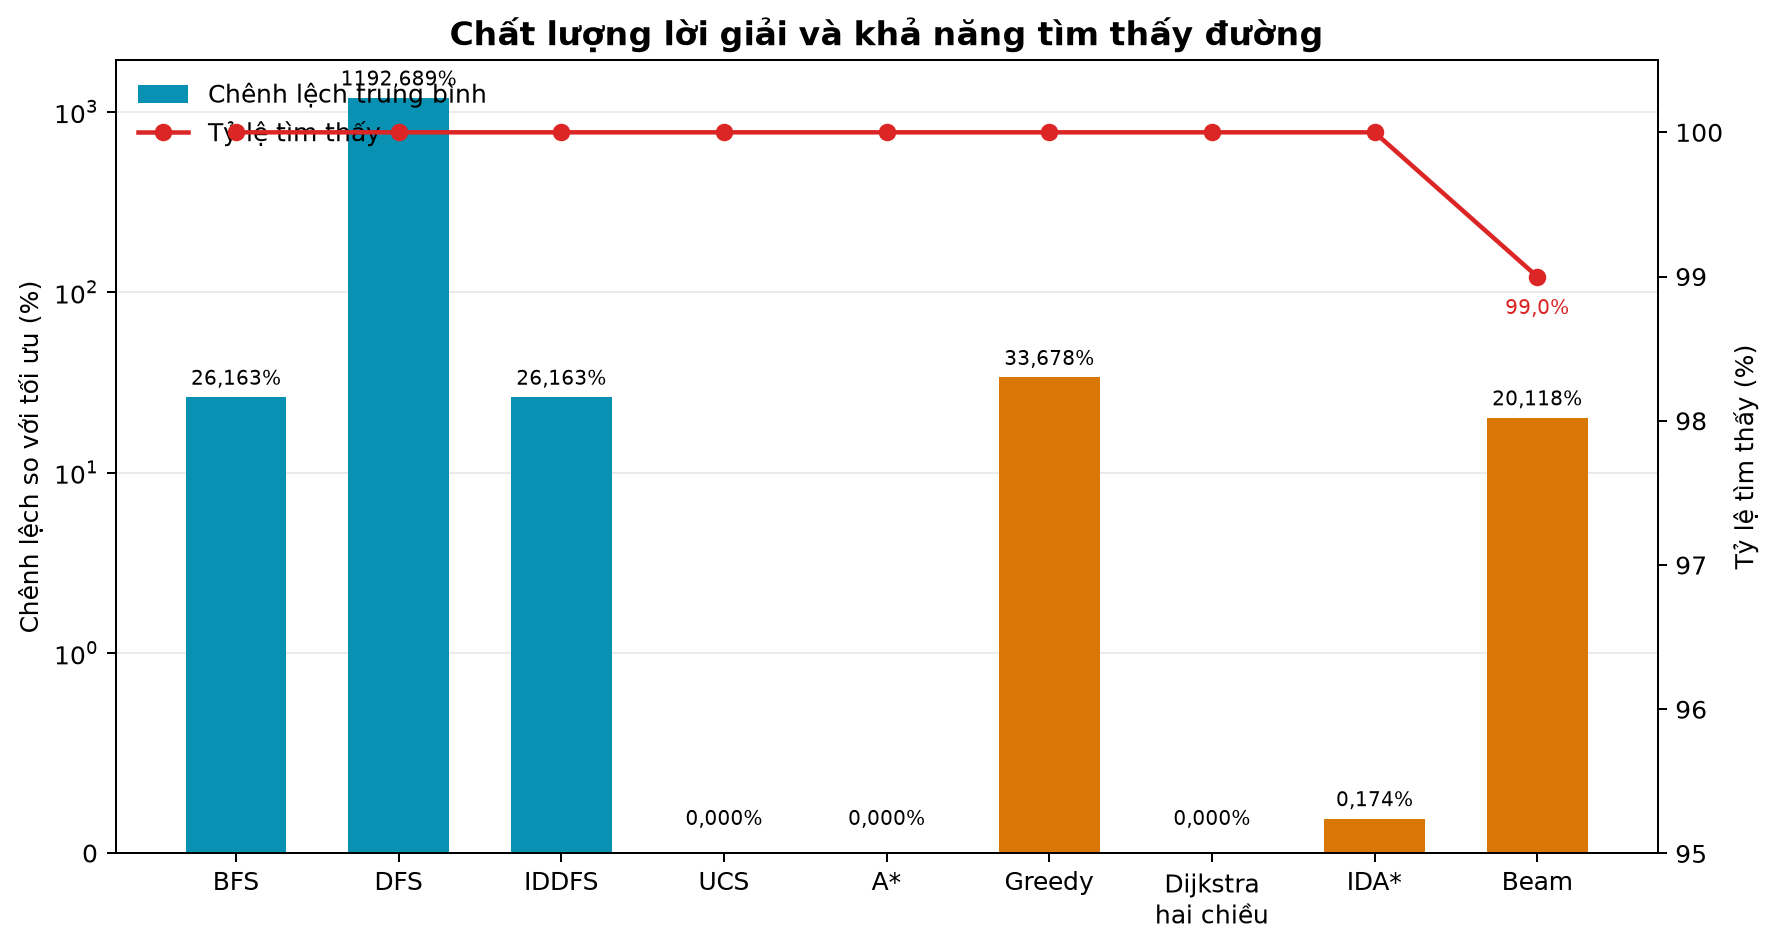
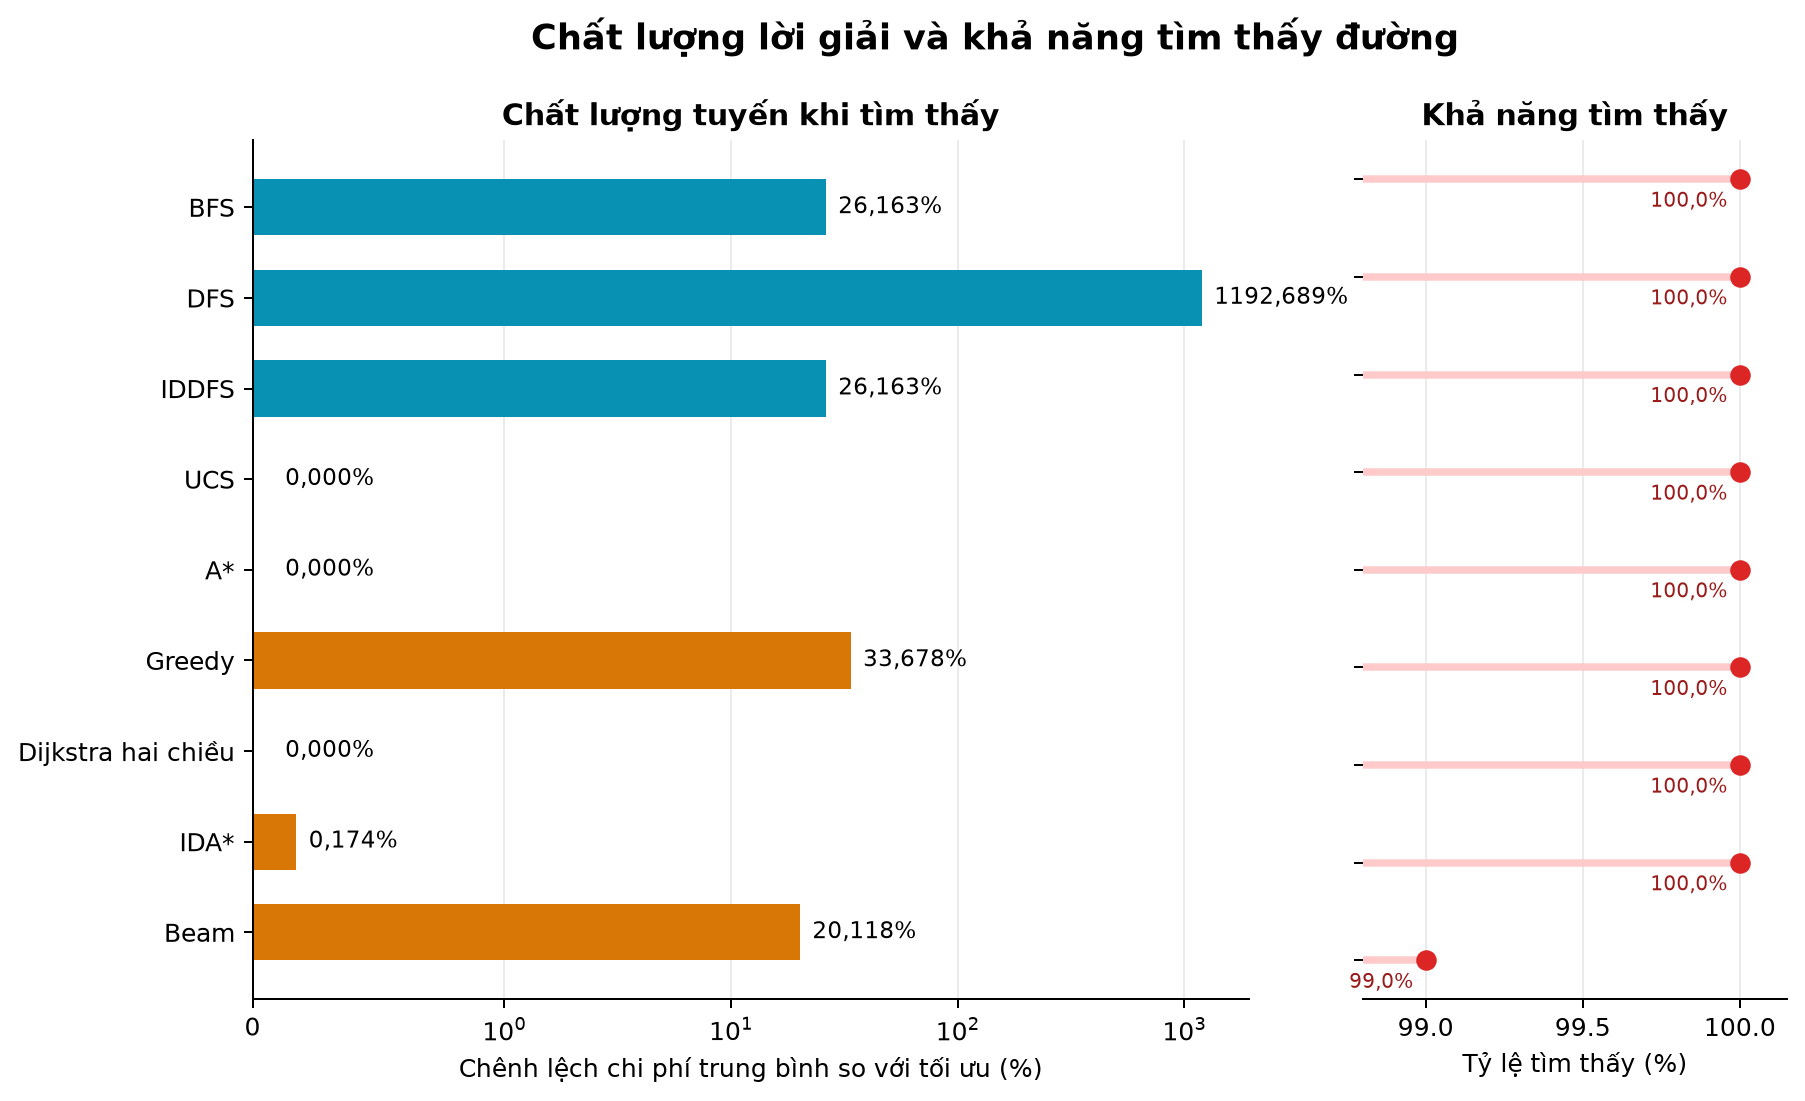
update 2 point report, benchmark csv

diff --git a/report/2point.md b/report/2point.md
@@ -91,7 +91,8 @@ theo cùng một thước đo vận hành.
 ### 5.2.2. Hàm ước lượng
 
 Gọi $d_H(n,t)$ là khoảng cách Haversine từ đỉnh $n$ đến đích $t$ và $v_{\max}$
-là vận tốc tự do lớn nhất trên toàn đồ thị. Hàm ước lượng được chọn như sau:
+là vận tốc tự do lớn nhất trên đồ thị hiệu lực đang xét. Hàm ước lượng được chọn
+như sau:
 
 $$
 h(n)=
@@ -311,7 +312,7 @@ với $\varepsilon=5$ mét ở chế độ khoảng cách và 5 giây ở hai ch
 
 ```text
 ngưỡng = h(s)
-Lặp tối đa số vòng an toàn:
+Lặp tối đa số vòng an toàn (mặc định 1.000):
     Chạy DFS, chỉ mở rộng trạng thái có g + h không vượt ngưỡng
     Nếu gặp đích: trả về đường đi
     Ghi nhận giá trị f nhỏ nhất đã vượt ngưỡng
@@ -382,22 +383,29 @@ rộng ít trong tiểu đồ thị; IDA* dùng biên nhỏ nhưng phải lặp 
 | Beam Search | Không | Không | Có thể loại bỏ toàn bộ nhánh dẫn đến đích |
 
 Gọi $b$ là hệ số phân nhánh, $d$ là độ sâu của nghiệm nông nhất, $k$ là độ rộng
-Beam. Bảng 7.2 trình bày cận điển hình; với A*, Greedy và IDA*, hiệu quả thực tế
-phụ thuộc mạnh vào chất lượng hàm ước lượng.
+Beam và $Q$ là số bản ghi lớn nhất nằm đồng thời trong ngăn xếp tường minh.
+Bảng 7.2 tách cận thời gian thường dùng khỏi bộ nhớ của cách hiện thực hiện tại;
+với A*, Greedy và IDA*, hiệu quả thực tế còn phụ thuộc mạnh vào chất lượng hàm
+ước lượng.
 
 **Bảng 7.2. Độ phức tạp và đặc điểm sử dụng tài nguyên**
 
-| Thuật toán | Thời gian điển hình hoặc cận xấu nhất | Bộ nhớ | Đặc điểm chính |
+| Thuật toán | Thời gian điển hình hoặc cận xấu nhất | Bộ nhớ của cách hiện thực | Đặc điểm chính |
 |---|---|---|---|
 | BFS | $O(V+E)$ | $O(V)$ | Tốt cho số bước, không xét trọng số |
-| DFS | $O(V+E)$ | $O(V)$ | Đi sâu nhanh, nhạy với thứ tự kề |
-| IDDFS | $O(b^d)$ | $O(V+bd)$ trong hiện thực hiện tại | Mở rộng lặp nhiều vòng |
-| UCS | $O((V+E)\log V)$ | $O(V)$ | Mốc chuẩn tối ưu đáng tin cậy |
-| A* | Xấu nhất $O((V+E)\log V)$ | $O(V)$ | Có thể giảm tìm kiếm nhờ hàm ước lượng |
+| DFS | $O(V+E)$ | $O(V+E)$ trong trường hợp xấu do ngăn xếp có thể chứa ứng viên trùng | Đi sâu nhanh, nhạy với thứ tự kề |
+| IDDFS | $O(b^d)$ | $O(V+Q)$ cho ánh xạ độ sâu và ngăn xếp tường minh | Mở rộng lặp nhiều vòng |
+| UCS | $O((V+E)\log V)$ | $O(V+E)$ trong trường hợp xấu do hàng đợi có bản ghi cũ | Mốc chuẩn tối ưu đáng tin cậy |
+| A* | Xấu nhất $O((V+E)\log V)$ | $O(V+E)$ trong trường hợp xấu do hàng đợi có bản ghi cũ | Có thể giảm tìm kiếm nhờ hàm ước lượng |
 | Greedy | Xấu nhất $O((V+E)\log V)$ | $O(V)$ | Nhanh nhưng không bảo đảm chất lượng |
-| Dijkstra hai chiều | Xấu nhất $O((V+E)\log V)$ | $O(V)$ | Hai biên tìm kiếm và điều kiện dừng chặt chẽ |
-| IDA* | Xấu nhất $O(b^d)$ | $O(V+bd)$ trong hiện thực hiện tại | Biên nhỏ nhưng tái mở rộng rất nhiều |
-| Beam Search | Xấp xỉ $O(dkb\log(kb))$ | $O(kb)$ | Giới hạn biên bằng $k$, đánh đổi tính đầy đủ |
+| Dijkstra hai chiều | Xấu nhất $O((V+E)\log V)$ | $O(V+E)$ cho hai phía và các bản ghi hàng đợi | Hai biên tìm kiếm và điều kiện dừng chặt chẽ |
+| IDA* | Xấu nhất $O(b^d)$ | $O(V+Q)$ cho các ánh xạ theo đỉnh và ngăn xếp tường minh | Biên nhỏ nhưng tái mở rộng rất nhiều |
+| Beam Search | Xấp xỉ $O(dkb\log(kb))$ khi không lưu diễn tiến | $O(V+kb)$ do vẫn giữ tập đã thăm, chi phí và cha | Giới hạn lớp kế tiếp bằng $k$, đánh đổi tính đầy đủ |
+
+Các cận trên không tính chi phí tuần tự hóa diễn tiến minh họa. Khi lưu từng
+bước, việc dựng và sắp xếp ảnh chụp biên làm tăng thời gian và bộ nhớ. Chỉ số
+“biên lớn nhất” trong thực nghiệm vì thế là một chỉ báo thuật toán, không phải
+toàn bộ bộ nhớ của tiến trình và cũng không nhất thiết bằng $Q$.
 
 ## 7.2. Thiết kế thực nghiệm
 
@@ -445,8 +453,19 @@ Lượt đo hiệu năng hoàn tất lúc 00:06 ngày 15/08/2026 và kéo dài 6
 Cấu hình đo gồm AMD Ryzen 7 7735HS, 8 nhân/16 luồng, 15,25 GiB RAM,
 Microsoft Windows 11 Home Single Language bản dựng 26100 và Python 3.14.7.
 Trong thời gian đo, máy chủ giao diện và máy chủ dịch vụ không chạy để tránh
-cạnh tranh tài nguyên. Các máy chủ chỉ được khởi động sau khi phép đo kết thúc
-để kiểm tra khả năng đọc và trình bày kết quả.
+cạnh tranh tài nguyên. Sau phép đo, dịch vụ API được khởi động độc lập và xác
+nhận nạp đủ 3.600 bản ghi; trang trình bày kết quả phản hồi HTTP 200 và mã giao
+diện vượt kiểm tra kiểu tĩnh riêng. Các kiểm tra hậu nghiệm này không tham gia
+và không làm thay đổi phép đo hiệu năng.
+
+Lượt ngày 15/08 đo lại thí nghiệm so sánh chín thuật toán trên đúng đồ thị,
+hồ sơ, mã thuật toán, hạt giống và 200 cặp OD của lượt chính thức ngày
+11/08/2026. Đối chiếu từng hàng cho thấy **0/3.600 hàng khác nhau ở mọi cột xác
+định** gồm thuật toán, cặp, khung giờ, trạng thái tìm thấy, chi phí, độ chênh, số
+đỉnh mở rộng và biên lớn nhất; chỉ cột thời gian chạy thay đổi ở 3.594/3.600
+hàng do khác máy và nhiễu đo. Vì vậy, các bảng chất lượng/tìm kiếm dùng bằng
+chứng xác định chung của hai lượt, còn mọi nhận xét về mili giây trong chương
+này chỉ áp dụng cho môi trường ngày 15/08 nêu trên.
 
 Do phân phối thời gian và số đỉnh mở rộng lệch phải mạnh, báo cáo ưu tiên trung
 vị và phân vị 95 (P95). Giá trị trung bình vẫn được dùng cho độ chênh chi phí để
@@ -471,17 +490,22 @@ phản ánh toàn bộ mức thiệt hại do các nghiệm xấu.
 | Beam Search | 396/400 | 99,0% | 20,118% | 16,846% | 52,846% | 104,173% |
 
 UCS, A* và Dijkstra hai chiều đạt độ chênh bằng 0 trong toàn bộ 400 lượt. Kết quả
-này phù hợp với bảo đảm tối ưu của ba thuật toán. IDA* có độ chênh trung bình 0,174%;
-xét theo đơn vị tuyệt đối, sai lệch trung bình là 0,849 giây, P95 là 3,750 giây
-và lớn nhất là 4,845 giây. Như vậy, toàn bộ quan sát IDA* đều nằm trong biên
-cộng 5 giây đã công bố.
+này phù hợp với bảo đảm tối ưu của ba thuật toán. IDA* có độ chênh trung bình
+0,174%. Tính xấp xỉ từ các giá trị đã làm tròn trong bảng dữ liệu, sai lệch
+tuyệt đối trung bình là 0,849 giây, P95 là 3,750 giây và lớn nhất khoảng
+4,845 giây. Như vậy, toàn bộ quan sát IDA* đều phù hợp với biên cộng 5 giây đã
+công bố.
 
-BFS và IDDFS tạo cùng tuyến vì đều ưu tiên độ sâu nhỏ nhất; chi phí trung bình
-cao hơn tối ưu 26,163%. Greedy hướng mạnh về đích và nhanh, nhưng độ chênh trung bình
-33,678%. DFS cho chất lượng kém nhất: độ chênh trung vị 980,228%, cho thấy một tuyến
-được tìm thấy không đồng nghĩa với một tuyến hữu ích. Tìm kiếm chùm có độ chênh thấp
-hơn BFS và Greedy trên các lượt thành công, nhưng bỏ lỡ 4/400 truy vấn vì thao
-tác cắt tỉa đã loại bỏ các nhánh cần thiết.
+BFS và IDDFS có cùng thống kê độ chênh trên tập đo, phù hợp với việc cả hai ưu
+tiên nghiệm nông theo số cạnh; dữ liệu tổng hợp không lưu chuỗi đỉnh nên không
+dùng kết quả này để khẳng định hai thuật toán luôn trả cùng một tuyến khi có
+nhiều nghiệm đồng độ sâu. Chi phí trung bình của chúng cao hơn tối ưu 26,163%.
+Greedy hướng mạnh về đích và nhanh, nhưng độ chênh trung bình 33,678%. DFS cho
+chất lượng kém nhất:
+độ chênh trung vị 980,228%, cho thấy một tuyến được tìm thấy không đồng nghĩa
+với một tuyến hữu ích. Tìm kiếm chùm có độ chênh thấp hơn BFS và Greedy trên
+các lượt thành công, nhưng bỏ lỡ 4/400 truy vấn vì thao tác cắt tỉa đã loại bỏ
+các nhánh cần thiết.
 
 ### 7.3.2. Khối lượng tìm kiếm, biên và thời gian
 
@@ -499,7 +523,8 @@ tác cắt tỉa đã loại bỏ các nhánh cần thiết.
 | IDA* | 83.931,0 | 1.108.857,05 | 29,0 | 47,00 | 124,213 | 1.607,135 |
 | Beam Search | 1.025,0 | 1.836,10 | 50,0 | 50,00 | 3,717 | 6,743 |
 
-Greedy nhanh nhất với trung vị 0,295 ms và chỉ mở rộng trung vị 55 đỉnh, nhưng
+Trong môi trường đo đã nêu, Greedy nhanh nhất với trung vị 0,295 ms và chỉ mở
+rộng trung vị 55 đỉnh, nhưng
 đánh đổi bằng độ chênh lớn. BFS có thời gian thấp thứ hai dù mở rộng nhiều đỉnh, vì
 mỗi thao tác hàng đợi đơn giản và không cần tính thứ tự ưu tiên theo trọng số.
 
@@ -533,9 +558,11 @@ phù hợp hơn cho minh họa sự đánh đổi hoặc tình huống chấp nh
 
 ![Hình 7.3. Chênh lệch chi phí trung bình và tỷ lệ tìm thấy.](../results/figs/report_exp3_quality.png)
 
-*Hình 7.3. Chất lượng lời giải và tỷ lệ tìm thấy trên 400 lượt.*
+*Hình 7.3. Chất lượng lời giải và tỷ lệ tìm thấy trên 400 lượt. Trong ba hình
+7.1-7.3, màu lam biểu diễn nhóm duyệt không thông tin, màu tím biểu diễn nhóm
+tối ưu chính xác và màu cam biểu diễn nhóm heuristic hoặc có cắt/biên sai số.*
 
-### 7.3.3. Ảnh hưởng của khung giờ
+### 7.3.3. Ảnh hưởng của khung giờ đến hiệu năng thuật toán
 
 **Bảng 7.6. Kết quả tách theo hồ sơ 07:30 và 22:00**
 
@@ -571,6 +598,58 @@ và thời gian trung vị giảm 25,5%. IDA* cũng giảm mạnh khối lượn
 đúng với hai hồ sơ đại diện và tập 200 cặp đã chọn. Beam Search thất bại ba lượt
 ở 07:30 và một lượt ở 22:00, cho thấy kết quả cắt tỉa có thể thay đổi khi trọng
 số giao thông thay đổi.
+
+### 7.3.4. Ùn tắc làm thay đổi tuyến được chọn
+
+Thí nghiệm đổi khung giờ chạy A* trên cùng 200 cặp OD, cùng chế độ cân bằng và
+chỉ thay hồ sơ ùn tắc từ 07:30 sang 22:00. Kết quả có **149/200 cặp đổi chuỗi
+đỉnh, tương đương 74,5%**. Đây là bằng chứng trực tiếp cho yêu cầu phân tích ảnh
+hưởng của ùn tắc đến tuyến, khác với Bảng 7.6 vốn đo hiệu năng thuật toán.
+
+Một ví dụ cụ thể là cặp OD-000, từ nút `n0457` đến `n0103`. Hai tuyến nhập lại
+với nhau tại `n0490` rồi dùng chung hậu tố:
+
+```text
+S = n0490 → n0498 → n0461 → n0400 → n2060 → n2061 → n1859
+  → n0157 → n0502 → n1949 → n0372 → n0172 → n0531 → n0981
+  → n0470 → n0373 → n2049 → n0103
+
+R07 = n0457 → n0122 → n1424 → n0419 → n1426 → n0523 → n0518
+    → n0484 → n0485 → n0804 → S
+
+R22 = n0457 → n1621 → n1982 → n1981 → n0123 → n0402 → n0990
+    → n0080 → n1436 → n0511 → n0460 → n0456 → n1318 → S
+```
+
+**Bảng 7.7. Hai tuyến ứng viên của cặp OD-000 được chấm dưới cả hai hồ sơ**
+
+| Tuyến | Quãng đường (m) | Chi phí lúc 07:30 (giây) | Chi phí lúc 22:00 (giây) | Trễ do ùn tắc 07:30 / 22:00 (giây) | Phạt rủi ro (giây) |
+|---|---:|---:|---:|---:|---:|
+| R07 - tuyến được chọn lúc 07:30 | 2.685,2 | **565,2** | 376,1 | 249,0 / 60,0 | 75,0 |
+| R22 - tuyến được chọn lúc 22:00 | 2.656,1 | 596,1 | **357,7** | 283,6 / 45,2 | 100,0 |
+
+Tại 07:30, R07 rẻ hơn R22 khoảng 30,9 giây; đến 22:00, thứ tự đảo lại và R22
+rẻ hơn R07 khoảng 18,4 giây. Phần khác biệt trước nút nhập `n0490` giải thích
+quyết định này rõ hơn: ở 07:30, toàn bộ 13 cạnh của nhánh R22 nằm ở mức ùn tắc
+4 hoặc 5, làm chi phí tiền tố tăng lên 276,6 giây; tại 22:00, các cạnh này đều
+hạ xuống mức 1 hoặc 2, kéo chi phí tiền tố còn 169,4 giây. Trong khi đó, tiền
+tố R07 lần lượt có chi phí 245,7 và 187,8 giây.
+
+Các đoạn thay đổi mạnh trên R22 gồm `n0460→n0456` (mức 5→1, chi phí
+61,8→39,7 giây), `n0990→n0080` (5→2, 36,0→19,8 giây),
+`n1436→n0511` (5→2, 17,7→9,7 giây) và `n0511→n0460` (5→2,
+38,1→20,9 giây). A* vì vậy không đơn thuần chọn tuyến ngắn hơn: nó chọn R07
+trong hồ sơ sáng dù R07 dài hơn 29,1 m, rồi chuyển sang R22 khi mức ùn tắc trên
+nhánh này giảm vào hồ sơ đêm.
+
+![Hình 7.4. Hai tuyến A* của cặp OD-000 dưới hồ sơ 07:30 và 22:00.](assets/traffic_route_change_pair_000.png)
+
+*Hình 7.4. Phần nét tách nhau thể hiện hai tiền tố khác nhau; hai tuyến nhập lại
+tại n0490 và đi chung đến đích.*
+
+Kết luận trên chỉ áp dụng cho hai **hồ sơ đại diện** đã thu thập và mô phỏng;
+không được diễn giải thành tình trạng giao thông thời gian thực hoặc quan hệ
+nhân quả tổng quát cho mọi ngày.
 
 ## 7.4. Thảo luận
 
@@ -614,9 +693,16 @@ tọa độ và giới hạn vận tốc; nếu thay đổi mô hình chi phí t
 Thực nghiệm mới xác nhận ba nhóm hành vi. Nhóm tối ưu gồm UCS, A* và Dijkstra
 hai chiều đạt độ chênh bằng 0 trên toàn bộ 400 lượt; trong đó A* cho sự cân bằng tốt nhất
 giữa chất lượng và khối lượng tìm kiếm. Nhóm gần tối ưu gồm IDA*, đạt sai lệch
-tối đa 4,845 giây nhưng phải trả giá bằng số lần mở rộng và thời gian lớn. Nhóm
+lớn nhất xấp xỉ 4,845 giây nhưng phải trả giá bằng số lần mở rộng và thời gian lớn. Nhóm
 không tối ưu gồm BFS, DFS, IDDFS, Greedy và Beam Search thể hiện các đánh đổi
-khác nhau; Greedy nhanh nhất, còn Beam kiểm soát biên nhưng không đầy đủ.
+khác nhau; Greedy nhanh nhất trong môi trường đo, còn Beam kiểm soát biên nhưng
+không đầy đủ.
+
+Ảnh hưởng của giao thông không chỉ thể hiện ở thời gian chạy thuật toán:
+149/200 cặp OD đổi chính tuyến A* giữa hai hồ sơ. Ví dụ OD-000 cho thấy các cạnh
+trên nhánh R22 giảm từ mức ùn tắc 4 đến 5 xuống 1 đến 2, đủ làm thứ tự chi phí của hai
+tuyến đảo chiều. Bằng chứng này hoàn thành phần so sánh tuyến cụ thể nhưng vẫn
+được giới hạn đúng phạm vi hai hồ sơ đại diện.
 
 Kết quả quan trọng nhất là không có một thuật toán thắng trên mọi tiêu chí. Với
 bài toán giao thông có hướng và trọng số biến đổi theo thời gian, lựa chọn hợp
@@ -638,12 +724,14 @@ nhu cầu bộ nhớ và khả năng giải thích cho người dùng.
 9. Bảng 7.4. Tỷ lệ tìm thấy và chênh lệch chi phí.
 10. Bảng 7.5. Mức sử dụng tài nguyên và thời gian chạy.
 11. Bảng 7.6. Kết quả tách theo khung giờ.
+12. Bảng 7.7. Hai tuyến ứng viên của cặp OD-000 dưới hai hồ sơ.
 
 ## Danh mục hình
 
 1. Hình 7.1. Trung vị và P95 số đỉnh mở rộng của chín thuật toán.
 2. Hình 7.2. Trung vị và P95 thời gian chạy của chín thuật toán.
 3. Hình 7.3. Chênh lệch chi phí trung bình và tỷ lệ tìm thấy.
+4. Hình 7.4. Hai tuyến A* của cặp OD-000 dưới hồ sơ 07:30 và 22:00.
 
 # TÀI LIỆU THAM KHẢO
 
@@ -656,8 +744,8 @@ kết quả tìm kiếm*, tài liệu kỹ thuật nội bộ, 2026.
 [3] Nhóm thực hiện, *Bộ dữ liệu đồ thị đường bộ và hồ sơ giao thông đại diện tại
 trung tâm Thành phố Hồ Chí Minh*, phiên bản ngày 03/08/2026.
 
-[4] Nhóm thực hiện, *Kết quả thực nghiệm độ đúng và hiệu năng của các thuật toán
-tìm đường hai điểm*, lượt chạy hoàn tất ngày 15/08/2026.
+[4] Nhóm thực hiện, *Kết quả thực nghiệm độ đúng, hiệu năng và ảnh hưởng của ùn
+tắc đến tuyến đường*, các lượt xác minh ngày 11/08/2026 và 15/08/2026.
 
 [5] S. Russell và P. Norvig, *Artificial Intelligence: A Modern Approach*,
 ấn bản thứ 4, Pearson, 2020, Chương 3.
@@ -685,6 +773,8 @@ Search,” *Artificial Intelligence*, tập 27, số 1, tr. 97–109, 1985.
 - [x] Bảng hiệu năng có đủ 3.600 bản ghi và 400 lượt cho mỗi thuật toán.
 - [x] Phân tích tách biệt chất lượng, số đỉnh mở rộng, biên, thời gian và tỷ lệ
   tìm thấy.
+- [x] Có bằng chứng 149/200 cặp đổi tuyến và một cặp OD cụ thể với hai đường đi,
+  chi phí, mức ùn tắc cạnh và giới hạn diễn giải hồ sơ đại diện.
 - [x] Phần thuyết minh không chứa tên tệp, mã phiên bản hoặc chỉ dẫn thao tác nội bộ.
 - [x] Không thảo luận các thuật toán tối ưu hành trình nhiều điểm trong hai
   chương này.
